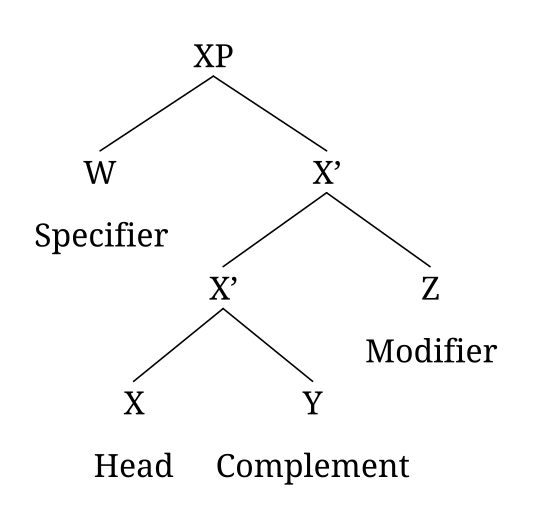
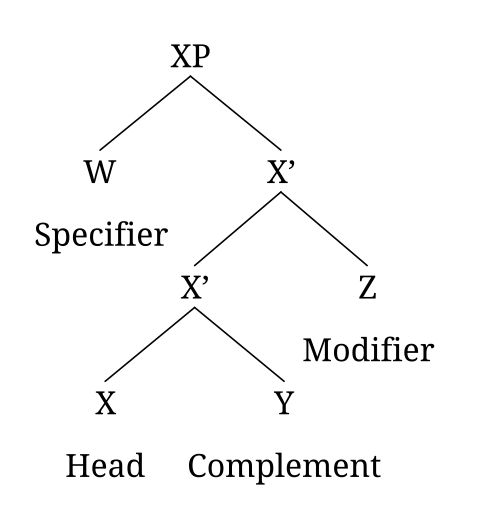
Release 2.10.0

diff --git a/lib/rsyntaxtree/version.rb b/lib/rsyntaxtree/version.rb
@@ -1,5 +1,5 @@
 # frozen_string_literal: true
 
 module RSyntaxTree
-  VERSION = "2.9.1"
+  VERSION = "2.10.0"
 end

diff --git a/docs/changelog.md b/docs/changelog.md
@@ -10,6 +10,16 @@ layout: default
 [Example Gallery](https://yohasebe.github.io/rsyntaxtree/examples) |
 [Web App](https://yohasebe.com/rsyntaxtree)
 
+## [2.10.0] - 2026-11-27
+
+### Added
+- `OPTION_KEYS` lists every option `RSGenerator` reads (not `data`, nor the options 2.0 removed), for a caller that wants a misspelt option refused
+
+### Fixed
+- A Symbol value for `direction` or `leafstyle` (`:ltr`, `:dashed`) draws what the string does
+- `tidy` no longer packs a boxed label under the edge of its neighbour's box
+- `tidy` no longer sets a branch through a neighbouring label, as it did beside a tall label with `leaf_align: "words"`
+
 ## [2.9.1] - 2026-11-27
 
 ### Changed

diff --git a/CHANGELOG.md b/CHANGELOG.md
@@ -1,5 +1,15 @@
 # Changelog
 
+## [2.10.0] - 2026-11-27
+
+### Added
+- `OPTION_KEYS` lists every option `RSGenerator` reads (not `data`, nor the options 2.0 removed), for a caller that wants a misspelt option refused
+
+### Fixed
+- A Symbol value for `direction` or `leafstyle` (`:ltr`, `:dashed`) draws what the string does
+- `tidy` no longer packs a boxed label under the edge of its neighbour's box
+- `tidy` no longer sets a branch through a neighbouring label, as it did beside a tall label with `leaf_align: "words"`
+
 ## [2.9.1] - 2026-11-27
 
 ### Changed
